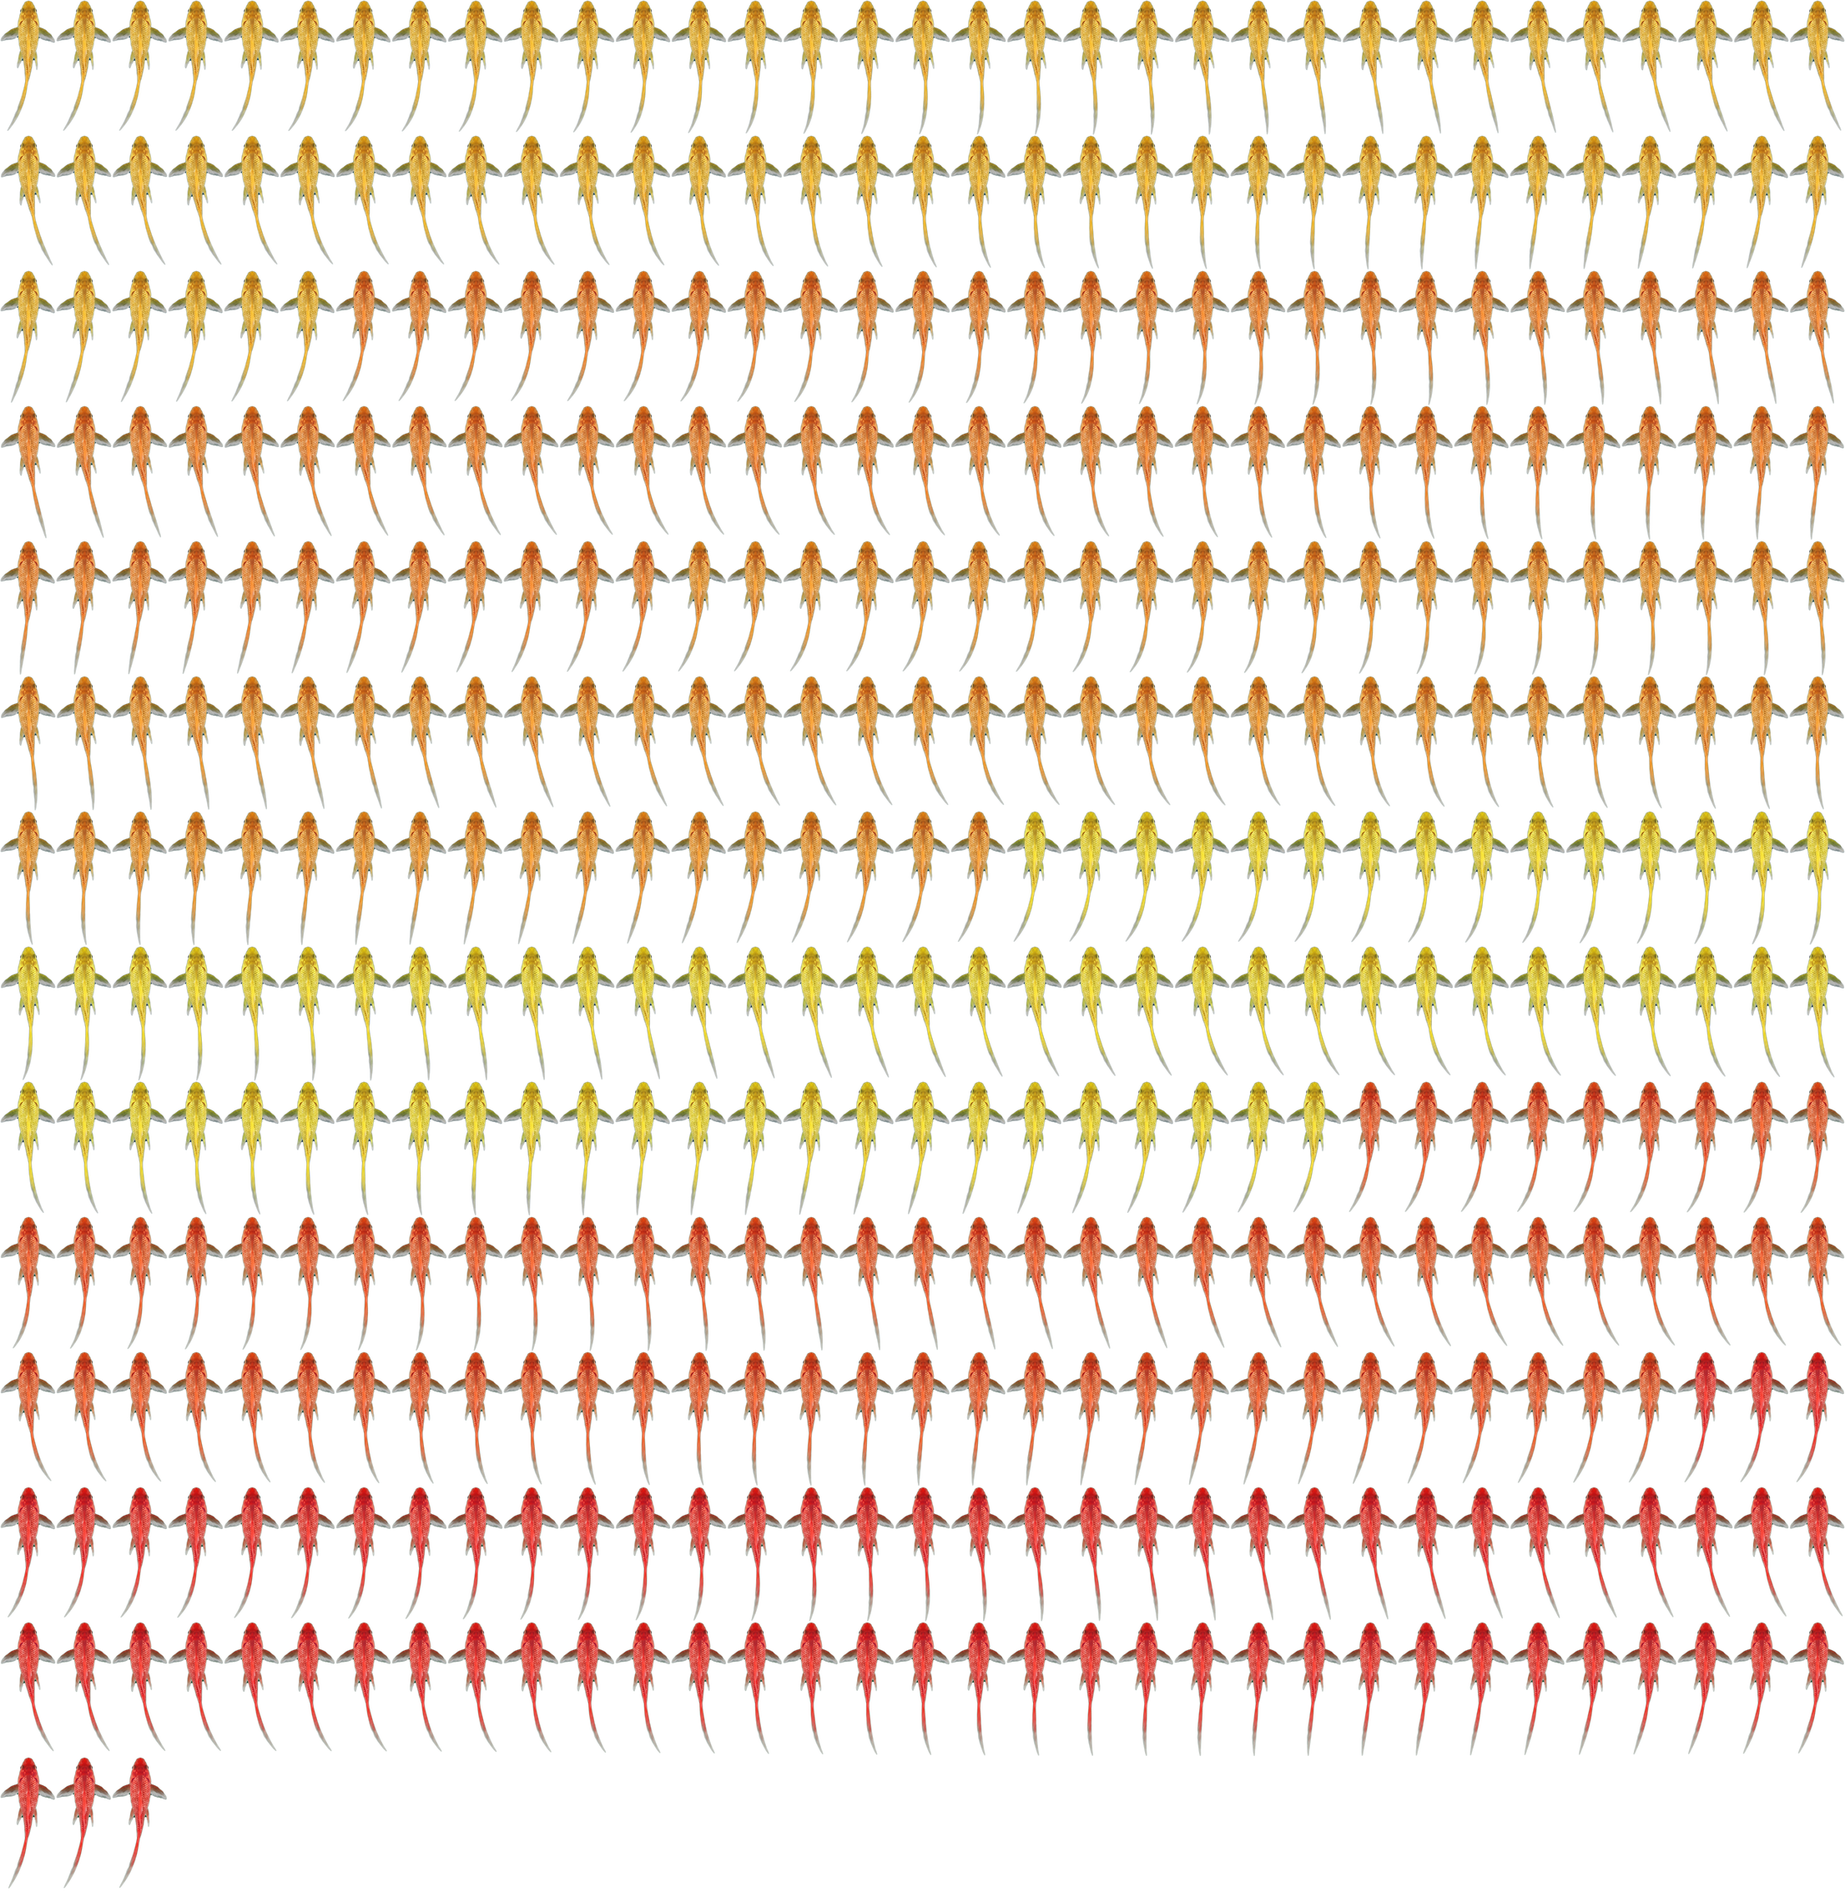
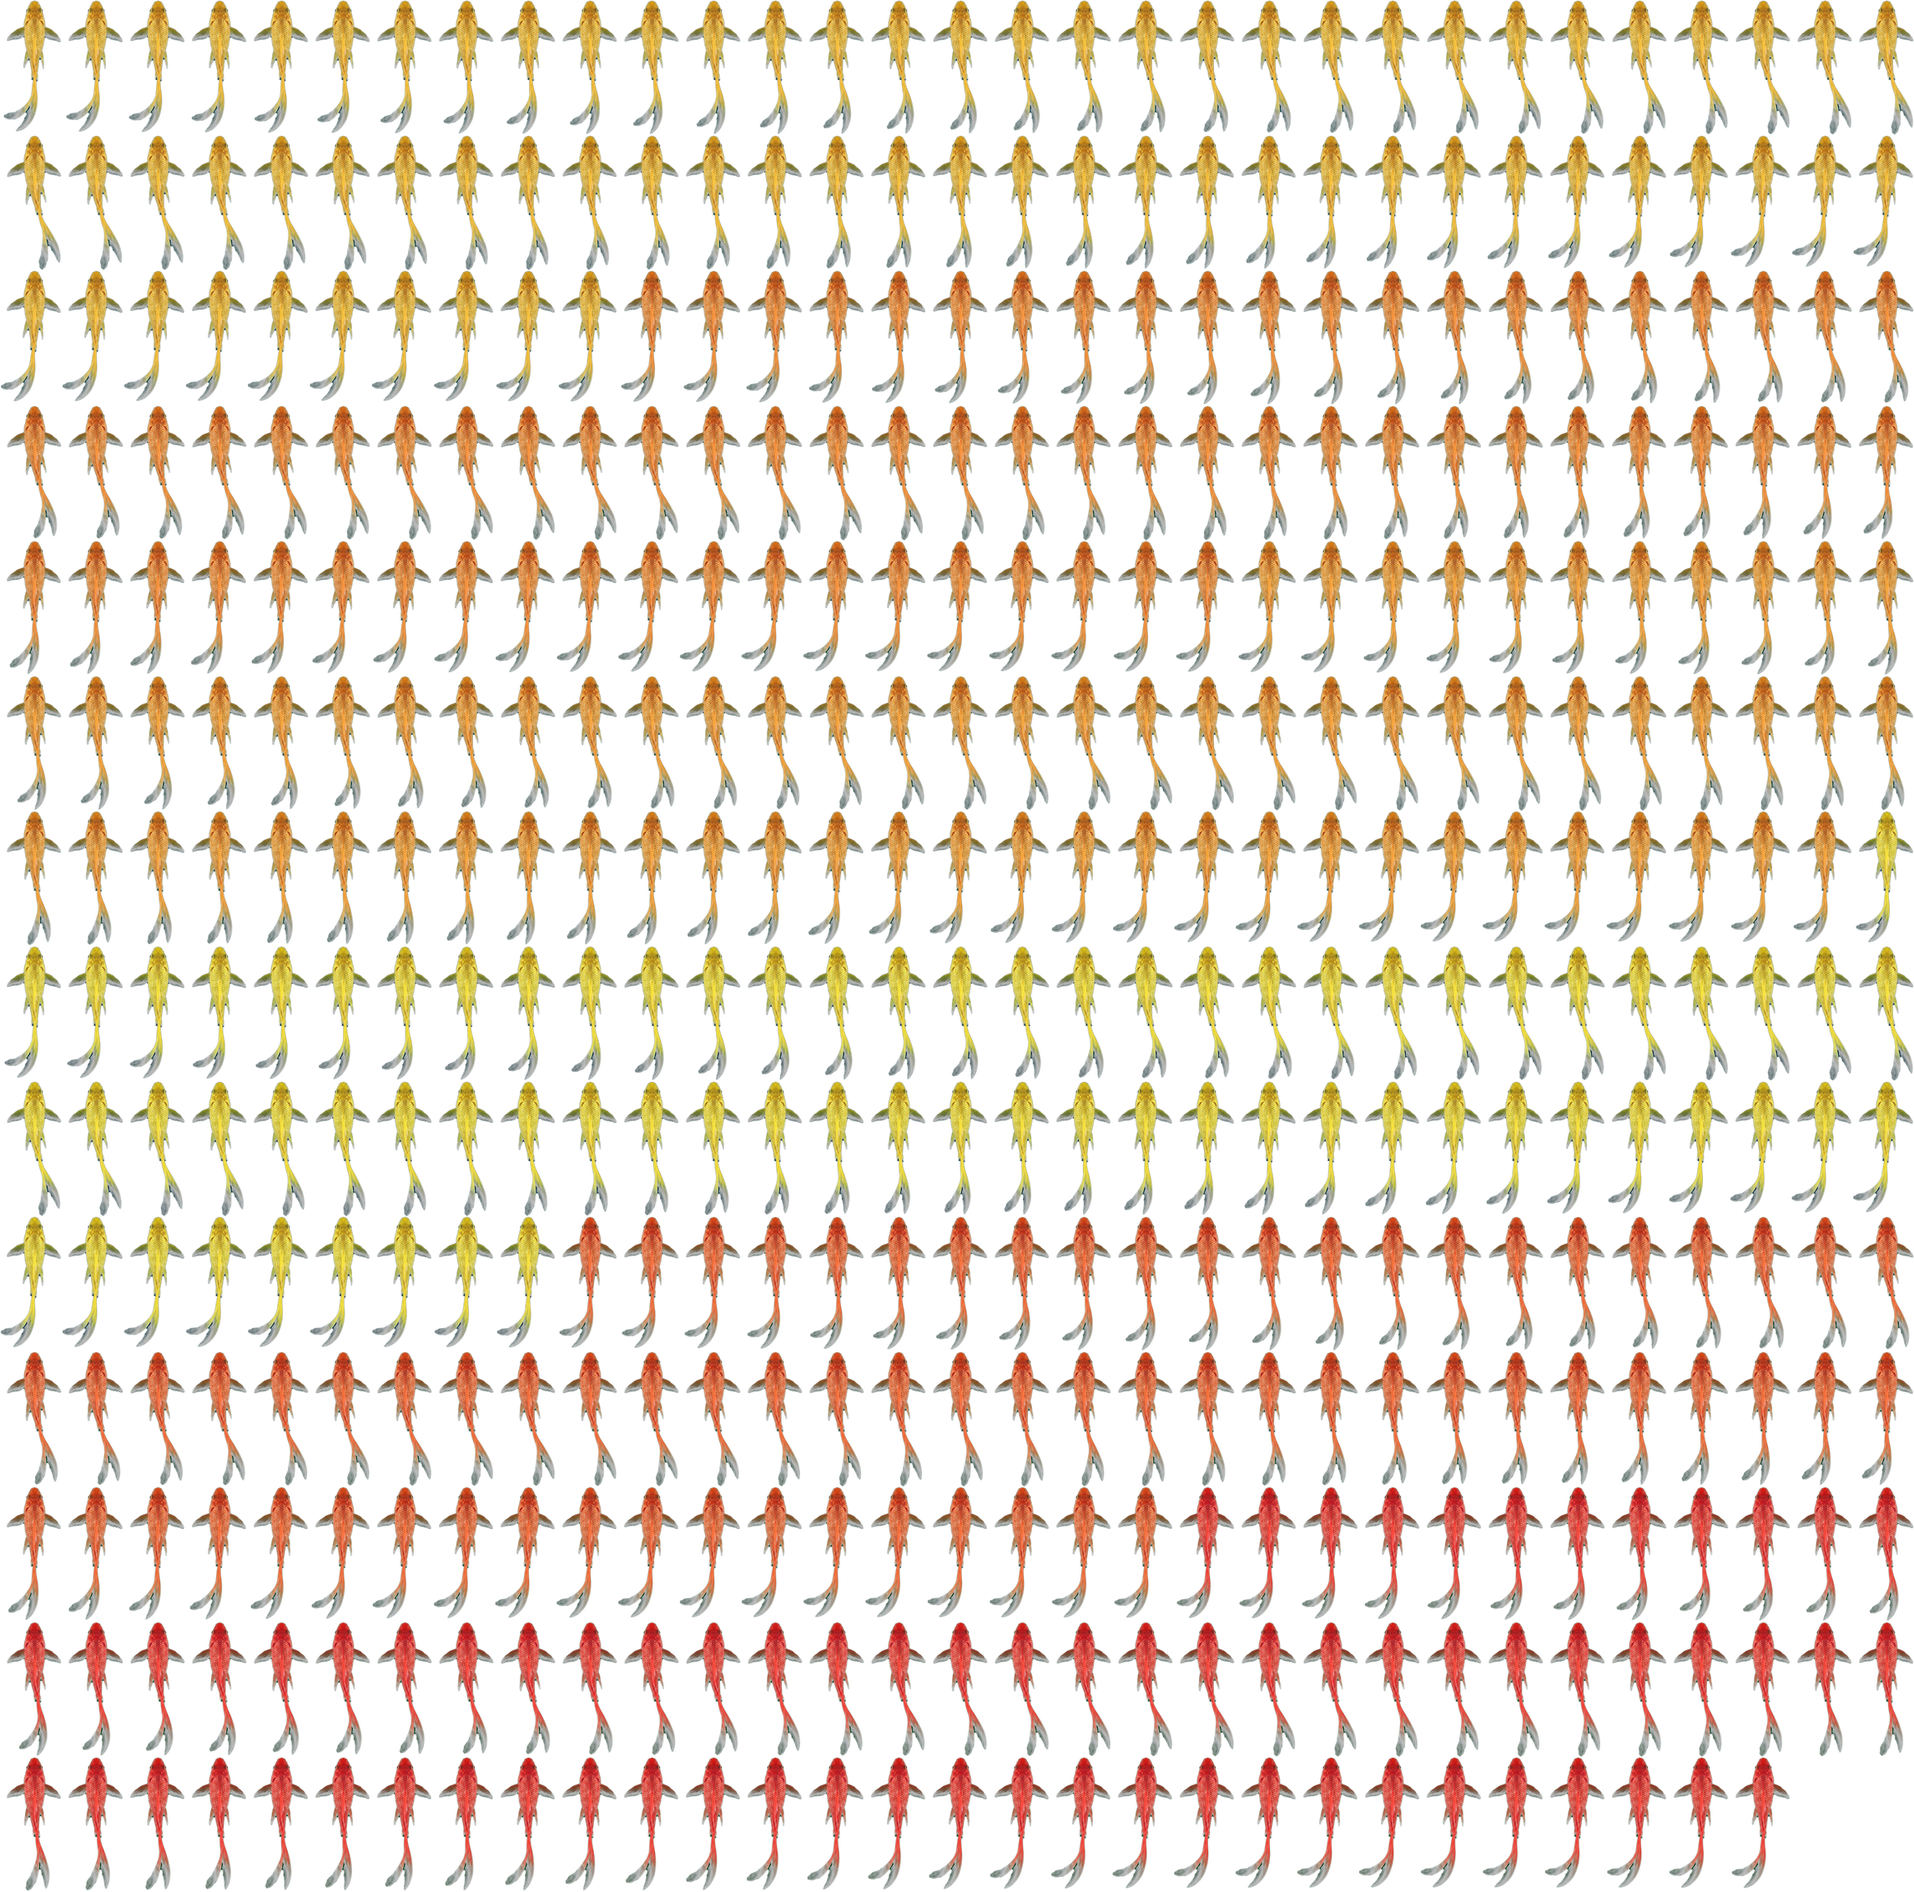
07 금색 코이 휜꼬리 환원 ASSET_VER=58/v=117

diff --git a/07_water_trace_goldfish/app.js b/07_water_trace_goldfish/app.js
@@ -27,7 +27,7 @@
   // 배경 데이터 절대 경로 = fractal_capture 폴더 (bg_build.py 가 assets/bg/ 로 최적화 복사 +
   //   assets/bg-manifest.json 생성). 앱은 매니페스트의 모든 이미지를 이름순 크로스페이드 재생.
   //   동영상(manifest.videos)은 V 키로 영상 배경 토글.  bg 갱신 시 BG_VER 올려 캐시 무효화.
-  const ASSET_VER = "57";   // 금색 코이: 4---.png 중앙(직선)포즈 기반 재생성 — 좌턴/중앙/우턴, 꼬리 찢어짐 없음
+  const ASSET_VER = "58";   // 금색 코이: 4-.png 휜꼬리판으로 환원(사용자 선택) + 개체별 미러로 좌우 섞임
   const BG_VER = "4";
   let SLIDE_HOLD_MS = 0;               // 각 장면 추가 표시 시간(▲/▼ 방향키 ±1초, 기본 0초)
   const SLIDE_FADE_MS = 1600;          // 크로스페이드 시간

diff --git a/07_water_trace_goldfish/index.html b/07_water_trace_goldfish/index.html
@@ -107,6 +107,6 @@
   })();
   </script>
 
-  <script src="app.js?v=116"></script>
+  <script src="app.js?v=117"></script>
 </body>
 </html>
